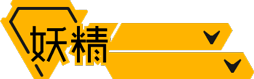
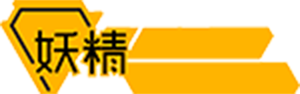
首页

Changed region(s): [[0.0, 0.0, 1.0, 1.0], [0.4134, 0.962, 0.4685, 1.0]]

diff --git a/pages/index/index.js b/pages/index/index.js
@@ -4,7 +4,7 @@ const app = getApp()
 
 Page({
   data: {
-    mainBgUrl: "../resources/images/bg.png",
+    mainBgUrl: "https://www.gamepaper.cn/Picture/gfimage/first/bg.png",
     
     userInfo: {},
     hasUserInfo: false,
@@ -57,6 +57,10 @@ Page({
       }
   ]
   },
+
+ 
+  
+  
   //事件处理函数
   bindViewTap: function() {
     wx.navigateTo({

diff --git a/pages/result/result.js b/pages/result/result.js
@@ -8,7 +8,7 @@ Page({
    * 页面的初始数据
    */
   data: {
-    mainBgUrl: "../resources/images/valueprint_bg.png",
+    mainBgUrl: "https://www.gamepaper.cn/Picture/gfimage/result/bg.png",
  
    
   },
